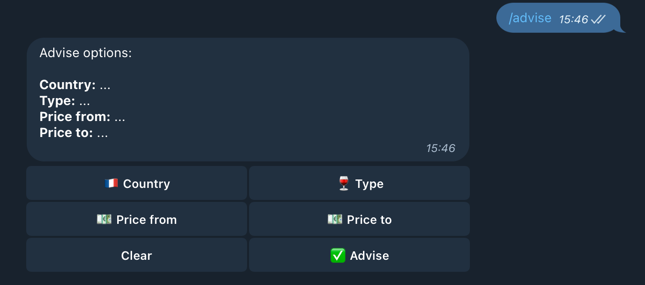
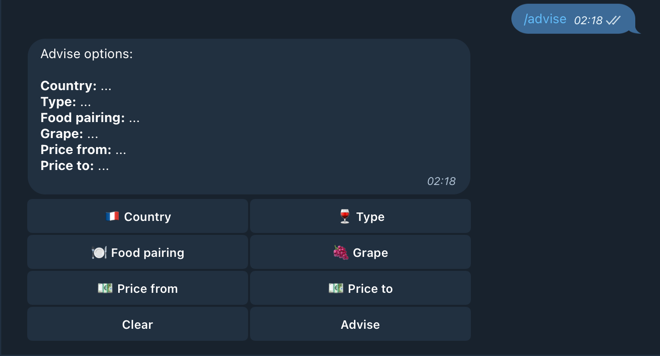
docs: update `/advise` (#13)

diff --git a/README.md b/README.md
@@ -75,6 +75,10 @@ Telegram bot for saving and advising wine
     <img src="docs/command_advise_country.png" width=400>  
   - `Type` button   
     <img src="docs/command_advise_type.png" width=400>  
+  - `Food pairing` button   
+    <img src="docs/command_advise_food_pairing.png" width=400>  
+  - `Grape` button   
+    <img src="docs/command_advise_grape.png" width=400>  
   - `Price` buttons  
     <img src="docs/command_advise_price.png" width=400>  
   - `Advise` button  
